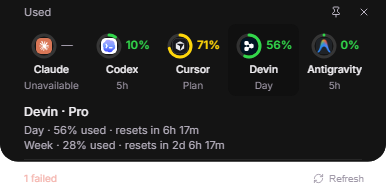
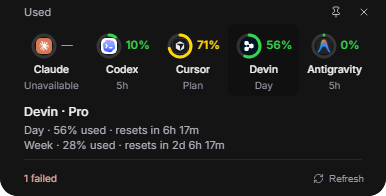
fix(bloom): show the notch in fixed mode and fit the quota footer

Changed region(s): [[0.0, 0.7347, 1.0, 1.0]]

diff --git a/bloom/e2e/quota-space.spec.ts b/bloom/e2e/quota-space.spec.ts
@@ -132,6 +132,17 @@ test("renders the reference layout", async ({ page }) => {
 	await qs.screenshot({ path: SHOT });
 });
 
+test("the footer stays inside the island", async ({ page }) => {
+	// The island grows to hold the status row plus the measured `.qs` extent;
+	// the failed/refresh footer is the lowest element, so it proves the fit.
+	await page.waitForTimeout(1200);
+	const pill = (await page.locator("div.bloom").boundingBox())!;
+	const footer = (await page.getByTestId("quota-failed").boundingBox())!;
+	const refresh = (await page.getByTestId("quota-refresh").boundingBox())!;
+	expect(footer.y + footer.height).toBeLessThanOrEqual(pill.y + pill.height);
+	expect(refresh.y + refresh.height).toBeLessThanOrEqual(pill.y + pill.height);
+});
+
 test("selecting a ring cell swaps the detail", async ({ page }) => {
 	await page.getByTestId("quota-cell-codex").click();
 	await expect(page.getByTestId("quota-cell-codex")).toHaveClass(/selected/);

diff --git a/bloom/src/App.tsx b/bloom/src/App.tsx
@@ -1988,8 +1988,15 @@ function App() {
 		(el: HTMLDivElement | null) => {
 			const target = el?.firstElementChild;
 			if (!el || !target) return undefined;
+			// `.qs` sits below the status row inside `.bloom`; the island must
+			// cover its bottom edge, not merely its own height. Measuring the
+			// edge delta is invariant to the pill's enter/leave translate.
 			const ro = new ResizeObserver(() => {
-				setQuotaSpaceHeight(target.getBoundingClientRect().height / scale);
+				const pill = el.closest(".bloom");
+				const h = pill
+					? target.getBoundingClientRect().bottom - pill.getBoundingClientRect().top
+					: target.getBoundingClientRect().height;
+				setQuotaSpaceHeight(h / scale);
 			});
 			ro.observe(target);
 			return () => ro.disconnect();

diff --git a/bloom/src/quota/QuotaPanel.tsx b/bloom/src/quota/QuotaPanel.tsx
@@ -109,8 +109,14 @@ export function QuotaPanel({
 		const el = rootRef.current;
 		if (!el) return;
 		const report = () => {
+			// The panel sits below the island's status row, so the window must
+			// fit `.qs`'s bottom edge inside `.bloom`, not `.qs`'s own height.
+			const pill = el.closest(".bloom");
+			const h = pill
+				? el.getBoundingClientRect().bottom - pill.getBoundingClientRect().top
+				: el.getBoundingClientRect().height;
 			invoke("set_quota_panel_height", {
-				height: Math.round(el.getBoundingClientRect().height * window.devicePixelRatio)
+				height: Math.round(h * window.devicePixelRatio)
 			}).catch(() => {});
 		};
 		report();

diff --git a/bloom/src-tauri/src/commands.rs b/bloom/src-tauri/src/commands.rs
@@ -463,9 +463,12 @@ pub async fn change_notch_mode(app: AppHandle, mode: String) {
         // the reservation is always released. Locked helper so a concurrent
         // display/power event cannot interleave with the AppBar call.
         crate::services::apply_main_appbar_mode(&app, false);
+        // Every notch mode needs the window shown: the frontend's startup
+        // poll waits on isVisible() before releasing isReady, and nothing
+        // else calls show() at startup — hiding this behind mode != "fixed"
+        // left the default mode parked invisible forever.
+        let _ = main_win.show();
         if mode != "fixed" {
-            let _ = main_win.show();
-
             let main_clone = main_win.clone();
             tauri::async_runtime::spawn(async move {
                 tokio::time::sleep(tokio::time::Duration::from_millis(100)).await;

diff --git a/docs/superpowers/plans/2026-10-23-bloom-quota-space.md b/docs/superpowers/plans/2026-10-23-bloom-quota-space.md
@@ -167,8 +167,8 @@
 
 ### Task 7: Desktop verification and standalone removal
 
-- [ ] Run `go test ./...`, `cargo test --locked` and `bun run build`. Then build with `tauri build --debug --no-bundle`, copy the helper next to the debug exe, and relaunch Bloom.
-- [ ] Confirm on the desktop:
+- [x] Run `go test ./...`, `cargo test --locked` and `bun run build`. Then build with `tauri build --debug --no-bundle`, copy the helper next to the debug exe, and relaunch Bloom.
+- [x] Confirm on the desktop:
   - The notch grows in the quota space and shrinks back on other panels.
   - It stays at the top centre above MyDockFinder.
   - Pin holds the notch open, and close collapses it.
